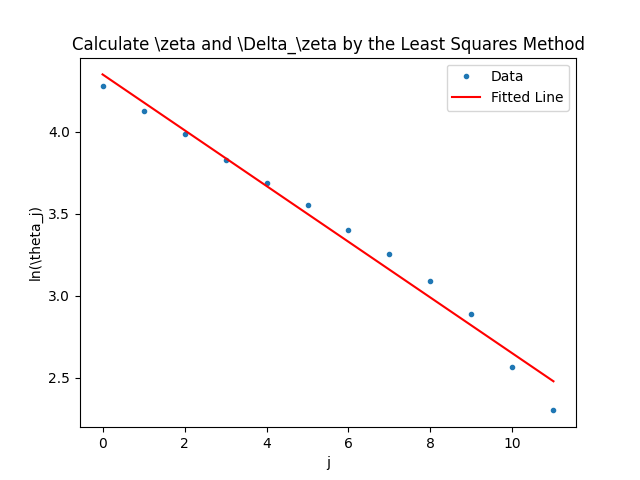
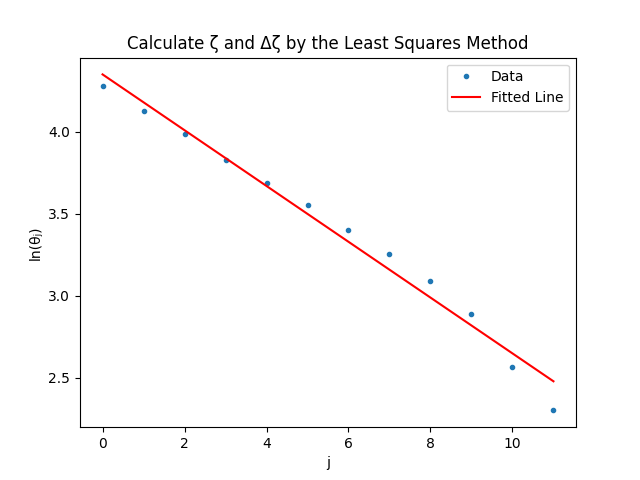
.

Changed region(s): [[0.125, 0.0625, 0.9062, 0.125], [0.0312, 0.4688, 0.0625, 0.5938]]

diff --git a/week_5/bin/B.py b/week_5/bin/B.py
@@ -47,19 +47,27 @@ print(f"\\omega_0={omega_0}")
 print(f"\\beta={beta}")
 print(f"\\tau={tau}")
 
-plt.title('Calculate \\zeta and \\Delta_\\zeta by the Least Squares Method')
+plt.title('Calculate ζ and Δζ by the Least Squares Method')
 plt.xlabel('j')
-plt.ylabel('ln(\\theta_j)')
+plt.ylabel('ln(θⱼ)')
 plt.plot(range(0, 12), y, '.', label='Data')
 plt.plot(range(0, 12), y_fit, 'r-', label='Fitted Line')
 plt.legend()
 plt.savefig(os.path.join(os.path.dirname(__file__), "B_1.png"))
 plt.close()
 
-plt.title('Curve 2')
-plt.xlabel('\omega / \omega_0')
-plt.ylabel('\\theta_m')
+plt.title("Amplitude Frequency Characteristic Curve (Damping = 2)")
+plt.xlabel('ω / ω₀')
+plt.ylabel('θₘ')
 plt.plot(sheet2_1, sheet2_2, '.', label='Data')
 plt.legend()
 plt.savefig(os.path.join(os.path.dirname(__file__), "B_2.png"))
+plt.close()
+
+plt.title('Phase Frequency Characteristic Curve (Damping = 2)')
+plt.xlabel('ω / ω₀')
+plt.ylabel('φ')
+plt.plot(sheet2_1, sheet2_3, '.', label='Data')
+plt.legend()
+plt.savefig(os.path.join(os.path.dirname(__file__), "B_3.png"))
 plt.close()

diff --git a/week_5/bin/C.py b/week_5/bin/C.py
@@ -47,19 +47,27 @@ print(f"\\omega_0={omega_0}")
 print(f"\\beta={beta}")
 print(f"\\tau={tau}")
 
-plt.title('Calculate \\zeta and \\Delta_\\zeta by the Least Squares Method')
+plt.title('Calculate ζ and Δζ by the Least Squares Method')
 plt.xlabel('j')
-plt.ylabel('ln(\\theta_j)')
+plt.ylabel('ln(θⱼ)')
 plt.plot(range(0, 12), y, '.', label='Data')
 plt.plot(range(0, 12), y_fit, 'r-', label='Fitted Line')
 plt.legend()
 plt.savefig(os.path.join(os.path.dirname(__file__), "C_1.png"))
 plt.close()
 
-plt.title('Curve 2')
-plt.xlabel('\omega / \omega_0')
-plt.ylabel('\\theta_m')
+plt.title('Amplitude Frequency Characteristic Curve (Damping = 4)')
+plt.xlabel('ω / ω₀')
+plt.ylabel('θₘ')
 plt.plot(sheet2_1, sheet2_2, '.', label='Data')
 plt.legend()
 plt.savefig(os.path.join(os.path.dirname(__file__), "C_2.png"))
+plt.close()
+
+plt.title('Phase Frequency Characteristic Curve (Damping = 4)')
+plt.xlabel('ω / ω₀')
+plt.ylabel('φ')
+plt.plot(sheet2_1, sheet2_3, '.', label='Data')
+plt.legend()
+plt.savefig(os.path.join(os.path.dirname(__file__), "C_3.png"))
 plt.close()

diff --git a/week_5/bin/A.py b/week_5/bin/A.py
@@ -37,9 +37,9 @@ print(f"\\omega_0={omega_0}")
 print(f"\\beta={beta}")
 print(f"\\tau={tau}")
 
-plt.title('Calculate \\zeta and \\Delta_\\zeta by the Least Squares Method')
+plt.title('Calculate ζ and Δζ by the Least Squares Method')
 plt.xlabel('j')
-plt.ylabel('ln(\\theta_j)')
+plt.ylabel('ln(θⱼ)')
 plt.plot(range(0, 50), y, '.', label='Data')
 plt.plot(range(0, 50), y_fit, 'r-', label='Fitted Line')
 plt.legend()
